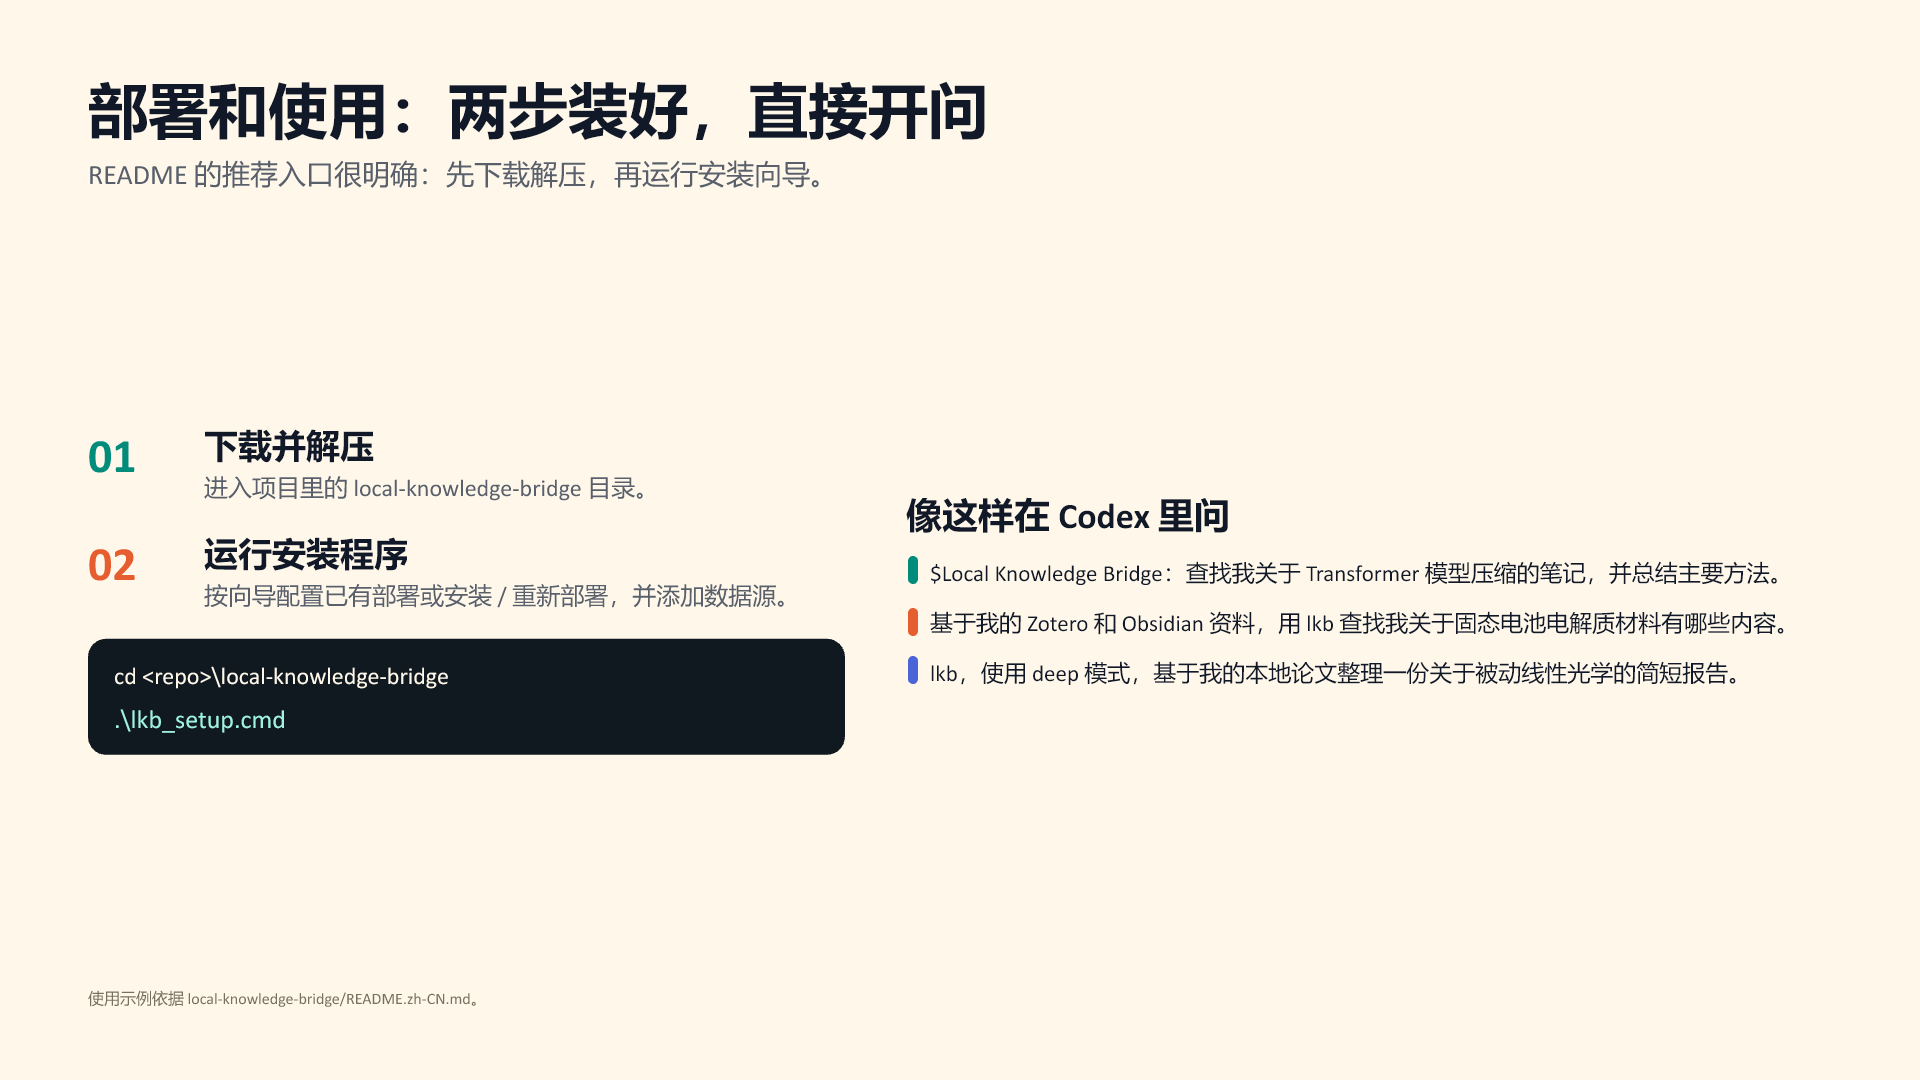
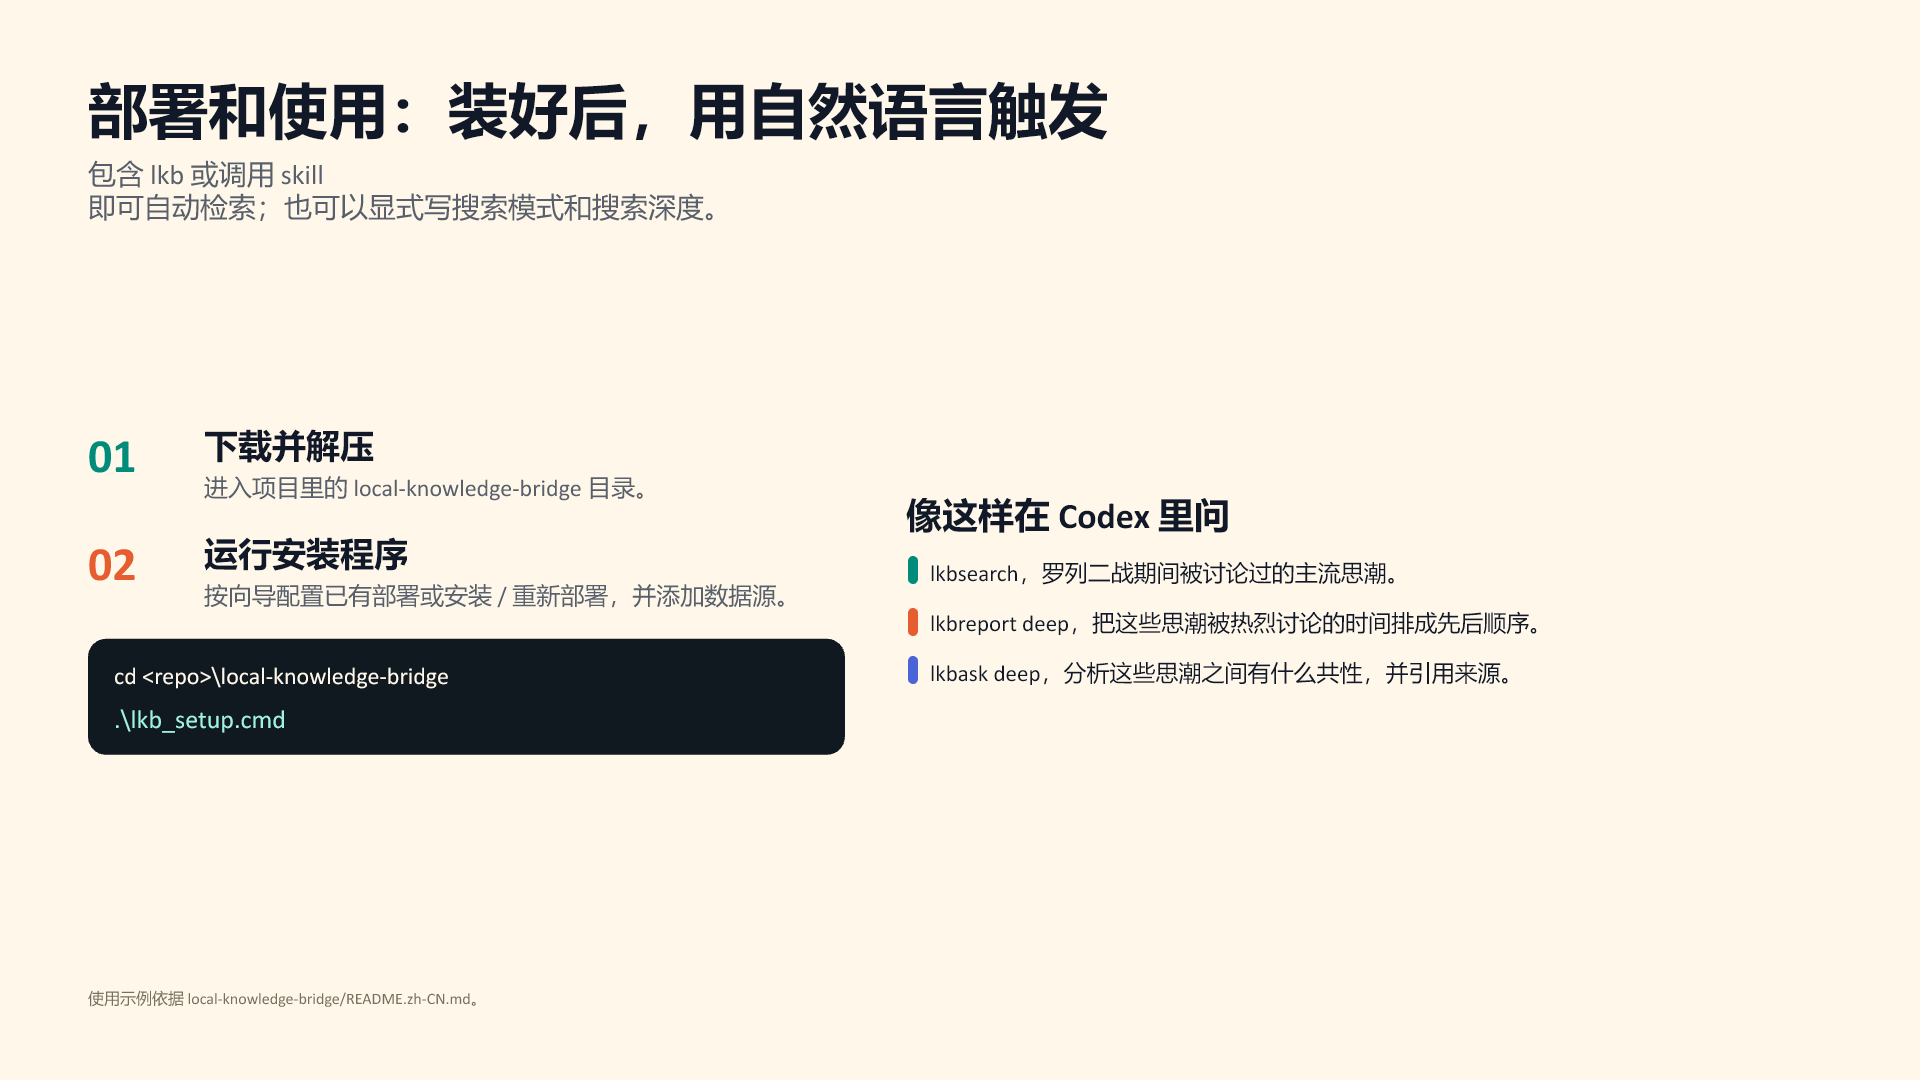
Clarify LKB modes and search depth
Improve user guidance for Local Knowledge Bridge by separating "search mode" (lkbsearch / lkbreport / lkbask / automatic) from "search depth" (fast / balanced / deep / auto). Update English and Chinese READMEs, SKILL.md, the presentation script and slides, and example prompts to show mode+depth combinations and add the `auto` shorthand for letting Codex choose. Also refresh associated presentation assets (PPTX and images) to match the new text and examples.

Changed region(s): [[0.0312, 0.0611, 0.5938, 0.2139], [0.4688, 0.5194, 0.9375, 0.6417]]

diff --git a/README.zh-CN.md b/README.zh-CN.md
@@ -110,22 +110,44 @@ $LKB = "$env:USERPROFILE\.codex\Function\local_knowledge_bridge"
 
 ### 在 Codex 中使用
 
-完成设置后，请在 Codex 中用自然语言使用它。当你希望 Codex 优先检索已配置的本地资料时，可以使用 `$Local Knowledge Bridge`，显式写出 `Local Knowledge Bridge`，或者在提示词中的任意位置加入 `lkb`。你也可以使用 `lkbsearch`、`lkbreport` 和 `lkbask` 这三个简写触发词，明确告诉 Codex 你想要哪种输出。
+完成设置后，请在 Codex 中用自然语言使用它。在提出问题或布置任务时包含 `lkb`，或显式调用 skill `$Local Knowledge Bridge`，就可以让 Codex 优先检索已配置的本地资料。你也可以使用 `lkbsearch`、`lkbreport` 和 `lkbask` 这三个简写触发词，明确告诉 Codex 你想要哪种输出；也可以使用 `fast`、`balanced`/`balance` 或 `deep` 来显式规定搜索深度。
 
-| 你想做什么 | 示例提示词 |
-| --- | --- |
-| 快速本地查找 | `$Local Knowledge Bridge：查找我关于 Transformer 模型压缩的笔记，并总结主要方法。` |
-| 原始候选检索 | `lkbsearch，在我的 Zotero 和 Obsidian 资料中查找固态电池电解质材料。` |
-| 证据报告 | `lkbreport，使用 deep 模式，基于我的本地论文整理一份关于被动线性光学的简短证据报告。` |
-| 带引用回答 | `lkbask：对比我本地关于 CRISPR 脱靶检测方法的笔记，并说明使用了哪些来源。` |
+日常使用时，可以把一次 LKB 请求理解成两个相互独立的选择：
 
-这些简写触发词是给 Codex 自然语言使用的；日常使用时不需要手动运行 PowerShell 命令。
+1. 搜索模式：你想要哪种输出。
+2. 搜索深度：你希望 LKB 查得多深。
 
-| 触发词 | 输出特点 | 来源处理方式 |
+这两个选择都可以自动。如果你不确定怎么选，直接写 `lkb` 加上你的问题，让 Codex 自动判断即可。想更明确时，也可以在同一句提示词里显式指定搜索模式、搜索深度，或同时指定两者。
+
+搜索模式决定输出形态。最简单的选择方式，是先想清楚你希望 LKB 帮你完成哪类任务：
+
+| 情景 | 使用 | LKB 应该做什么 | 来源处理方式 |
+| --- | --- | --- | --- |
+| “我还不确定要什么输出形式，先帮我查本地资料并处理这个问题。” | `lkb` 或 `$Local Knowledge Bridge` | Codex 根据你的请求自动选择检索、报告或回答。新手不确定时从这里开始。 | 来源处理方式取决于 Codex 自动选择的模式。 |
+| “我想罗列二战期间被讨论过的主流思潮。” | `lkbsearch` | 输出按相关度排序的本地候选材料列表，包含片段和路径，让你先看本地有哪些材料，并能自己打开来源继续检查。 | `DATA SOURCES` 可以列出所有已展示命中；编号按最终检索排序去重后生成。 |
+| “我想把二战期间主流思潮被热烈讨论的时间排成先后顺序。” | `lkbreport` | 输出结构化证据综述，比较来源，整理证据，再帮助你形成时间顺序或材料脉络。 | `DATA SOURCES` 可以列出所有已展示证据命中，因为 report 本身就是证据面。 |
+| “我想分析这些主流思潮之间有什么共性。” | `lkbask` | 输出基于本地证据写成的简洁回答，把关键判断和分析推理附上引用。 | `DATA SOURCES` 应只列正文实际引用过的来源；有帮助但未引用的候选命中应放入 `ADDITIONAL RETRIEVED SOURCES`。 |
+
+搜索深度决定检索力度：
+
+| 搜索深度 | 如何表达 | 适合场景 |
 | --- | --- | --- |
-| `lkbsearch` | 输出按相关度排序的本地候选材料列表，包含片段和路径。适合你想先看看本地有哪些资料，或想自己打开候选来源继续检查。 | `DATA SOURCES` 可以列出所有已展示命中；编号按最终检索排序去重后生成。 |
-| `lkbreport` | 输出结构化证据综述，先汇集最强的本地匹配，再帮助你比较来源或审查证据基础。 | `DATA SOURCES` 可以列出所有已展示证据命中，因为 report 本身就是证据面。 |
-| `lkbask` | 输出基于本地证据写成的简洁回答。适合你想要最终解释、判断或可直接使用的文字回答。 | `DATA SOURCES` 应只列正文实际引用过的来源；有帮助但未引用的候选命中应放入 `ADDITIONAL RETRIEVED SOURCES`。 |
+| 自动 | 不写搜索深度，或在 Codex 提示词中写 `auto`。 | 让 Codex 根据任务自动选择。新手默认用这个最稳。 |
+| Fast | `fast` | 快速检查、简单问题、低延迟查找。 |
+| Balanced | `balanced`；自然语言里写 `balance` 也可以 | 更广的本地召回，但不加载 deep 模型。适合希望本地材料查得更完整时使用。 |
+| Deep | `deep` | 本地语义检索和 reranking。适合复杂研究问题、文献综述，或你的问题和原文措辞不完全一致时使用。需要先完成 deep 设置。 |
+
+搜索模式和搜索深度可以自然组合：
+
+| 组合 | 示例提示词 |
+| --- | --- |
+| 自动模式 + 自动深度 | `lkb 我的笔记里关于 Transformer 模型压缩说了什么？` |
+| 自动模式 + 显式深度 | `lkb deep，总结我的本地资料中关于连续变量簇态的内容。` |
+| 显式模式 + 自动深度 | `lkbsearch，罗列二战期间被讨论过的主流思潮。` |
+| 检索 + balanced 深度 | `lkbsearch balanced，查找本地关于被动线性光学的资料。` |
+| 报告 + deep 深度 | `lkbreport deep，把二战期间主流思潮被热烈讨论的时间排成先后顺序。` |
+| 回答 + fast 深度 | `lkbask fast：我的 CRISPR 脱靶检测笔记的主要结论是什么？` |
+| 回答 + deep 深度 | `lkbask deep：基于我的 EndNote 和 Obsidian 来源，连续变量簇态无边图是否还有量子关联？` |
 
 同一次输出中的来源编号应全局唯一，例如 `[1]`、`[2]`、`[3]`，不要在 `Literature`、`Documents` 或其他来源分组中重新编号。对于 `lkbask`，正文中的事实判断和分析推理应使用同一套编号引用本地证据，例如 `……[1]` 或 `根据 [1], [3] 可以推断……`。
 
@@ -158,6 +180,7 @@ $LKB = "$env:USERPROFILE\.codex\Function\local_knowledge_bridge"
 
 检索配置（profiles）：
 
+- `auto` - 自然语言中的简写，表示让 Codex 自动选择检索配置；如果直接使用 CLI，不指定 `--profile` 即可，除非你想显式指定某个 profile
 - `fast` - 轻量本地检索，适合快速回答，默认使用
 - `balanced` - 更广的轻量检索
 - `deep` - 使用本地模型进行语义评分和 reranking

diff --git a/README.md b/README.md
@@ -110,22 +110,44 @@ When `deep_status.ready` is `true`, use `--profile deep` in search, ask, or repo
 
 ### Use It In Codex
 
-After setup, use natural language in Codex. Invoke `$Local Knowledge Bridge`, mention `Local Knowledge Bridge`, or include `lkb` anywhere in the prompt when you want Codex to search your configured local sources first. You can also use the shorthand trigger words `lkbsearch`, `lkbreport`, and `lkbask` to make the intended output style explicit.
+After setup, use natural language in Codex. Include `lkb` in your question or task, or explicitly invoke the `$Local Knowledge Bridge` skill, to make Codex search your configured local sources first. You can also use `lkbsearch`, `lkbreport`, and `lkbask` to tell Codex what kind of output you want, or use `fast`, `balanced`/`balance`, or `deep` to specify search depth.
 
-| What you want | Example prompt |
-| --- | --- |
-| Quick local lookup | `$Local Knowledge Bridge: find my notes on transformer model compression and summarize the main methods.` |
-| Raw candidate search | `lkbsearch my Zotero and Obsidian sources for solid-state battery electrolyte materials.` |
-| Evidence review | `lkbreport, use deep mode to make a short evidence report from my local papers about passive linear optics.` |
-| Cited answer | `lkbask: compare my local notes on CRISPR off-target detection methods and cite the sources you used.` |
+For everyday use, think of an LKB request as two independent choices:
 
-The shorthand triggers are for natural-language use in Codex; you do not need to run PowerShell commands for everyday work.
+1. Search mode: what kind of output you want.
+2. Search depth: how hard LKB should search.
 
-| Trigger | What you get | Source behavior |
+Both choices can be automatic. If you are unsure, just write `lkb` plus your question and let Codex choose. If you want more control, specify the mode, the depth, or both in the same prompt.
+
+Search mode controls the output shape. The easiest way to choose is to describe the job you want LKB to do:
+
+| Situation | Use | What LKB should do | Source behavior |
+| --- | --- | --- | --- |
+| "I am not sure what output form I need. Please look in my local sources and help me." | `lkb` or `$Local Knowledge Bridge` | Codex chooses search, report, or answer synthesis based on your request. Start here if you are not sure. | Source handling follows the mode Codex chooses. |
+| "I want to list the main intellectual currents discussed during World War II." | `lkbsearch` | Return a ranked list of candidate local materials with snippets and paths, so you can see what exists and open sources yourself. | `DATA SOURCES` may include all displayed hits, numbered by final retrieval rank after de-duplication. |
+| "I want to put those World War II intellectual currents in chronological order by when they were most actively discussed." | `lkbreport` | Build a structured evidence review, compare sources, and organize the retrieved evidence before you write or decide. | `DATA SOURCES` may include all displayed evidence hits because the report is an evidence surface. |
+| "I want to analyze what those intellectual currents have in common." | `lkbask` | Write a concise answer from local evidence, with citations attached to the claims and analysis. | `DATA SOURCES` should list only sources cited in the answer body. Useful uncited hits should be separated as `ADDITIONAL RETRIEVED SOURCES`. |
+
+Search depth controls retrieval effort:
+
+| Search depth | How to ask for it | Best for |
 | --- | --- | --- |
-| `lkbsearch` | A ranked list of matching local materials with snippets and paths. Choose this when you want to inspect what exists or open candidate sources yourself. | `DATA SOURCES` may include all displayed hits, numbered by final retrieval rank after de-duplication. |
-| `lkbreport` | A structured evidence review that gathers the strongest local matches before you write or decide. Choose this when you want to compare sources or audit the evidence base. | `DATA SOURCES` may include all displayed evidence hits because the report is an evidence surface. |
-| `lkbask` | A concise answer written from local evidence. Choose this when you want a final explanation, decision, or prose answer. | `DATA SOURCES` should list only sources cited in the answer body. Useful uncited hits should be separated as `ADDITIONAL RETRIEVED SOURCES`. |
+| Automatic | Leave depth unspecified, or write `auto` in a Codex prompt. | Letting Codex choose based on the task. This is the safest default for new users. |
+| Fast | `fast` | Quick checks, simple questions, and low-latency lookups. |
+| Balanced | `balanced`; `balance` is fine in natural language | Broader recall without loading deep models. Use this when you want a more complete local pass. |
+| Deep | `deep` | Local semantic retrieval and reranking. Use this for nuanced research questions, literature review, or when wording differs between your question and the source text. Requires deep setup. |
+
+You can combine mode and depth naturally:
+
+| Combination | Example prompt |
+| --- | --- |
+| Automatic mode + automatic depth | `lkb what do my notes say about transformer model compression?` |
+| Automatic mode + explicit depth | `lkb deep, summarize my local sources on continuous-variable cluster states.` |
+| Explicit mode + automatic depth | `lkbsearch list the main intellectual currents discussed during World War II.` |
+| Search + balanced depth | `lkbsearch balanced, find local sources about passive linear optics.` |
+| Report + deep depth | `lkbreport deep, put the World War II intellectual currents in chronological order by when they were most discussed.` |
+| Ask + fast depth | `lkbask fast: what is the main conclusion of my notes on CRISPR off-target detection?` |
+| Ask + deep depth | `lkbask deep: based on my EndNote and Obsidian sources, do CV cluster states without edges have quantum correlations?` |
 
 Source numbers are global within an output, such as `[1]`, `[2]`, `[3]`, and should not restart inside `Literature`, `Documents`, or other source-family sections. For `lkbask`, the answer should use the same numbers inline for claims and analysis that depend on local evidence, for example `... [1]` or `Inference from [1], [3]`.
 
@@ -158,6 +180,7 @@ Search targets:
 
 Retrieval profiles:
 
+- `auto` - natural-language shorthand for letting Codex choose a profile; in CLI use, omit `--profile` unless you want to specify one explicitly
 - `fast` - lightweight local retrieval, default for quick answers
 - `balanced` - broader lightweight retrieval
 - `deep` - semantic scoring and reranking with local models

diff --git a/skill/SKILL.md b/skill/SKILL.md
@@ -77,9 +77,12 @@ Profiles:
 
 Natural-language shorthand:
 
+- `lkb` means automatic output mode and automatic depth unless the user specifies otherwise.
 - `lkbsearch` means raw retrieval with `lkb_search.cmd`.
 - `lkbreport` means structured evidence review with `lkb_report.cmd`.
 - `lkbask` means cited answer synthesis with `lkb_ask.cmd`.
+- `auto` means let Codex choose the retrieval profile; for CLI usage, omit `--profile`.
+- `fast`, `balanced`, and `deep` explicitly select retrieval depth. Treat `balance` in natural language as `balanced`.
 
 Primary answer:
 
@@ -135,13 +138,19 @@ C:\Users\<user>\.codex\Function\local_knowledge_bridge\lkb_bootstrap_runtime.cmd
 - `use lkb to search passive linear optics`
 - `answer with lkb`
 - `search my local notes with lkb`
+- `lkb deep, summarize my local sources on continuous-variable cluster states`
 - `lkbsearch my Zotero and Obsidian sources for solid-state battery electrolyte materials`
+- `lkbsearch balanced, find local sources about passive linear optics`
 - `lkbreport, use deep mode to make an evidence report about passive linear optics`
 - `lkbask: compare my local notes on CRISPR off-target detection methods and cite the sources`
+- `lkbask fast: what is the main conclusion of my notes on CRISPR off-target detection`
 - `用 lkb 检索 passive linear optics`
+- `lkb deep，总结我的本地资料中关于连续变量簇态的内容`
 - `lkbsearch，在我的 Zotero 和 Obsidian 资料中查找固态电池电解质材料`
+- `lkbsearch balanced，查找本地关于被动线性光学的资料`
 - `lkbreport，使用 deep 模式整理一份关于被动线性光学的证据报告`
 - `lkbask：对比我本地关于 CRISPR 脱靶检测方法的笔记并引用来源`
+- `lkbask fast：我的 CRISPR 脱靶检测笔记的主要结论是什么`
 - `基于 lkb 回答这个问题`
 
 ## Behavior Notes

diff --git a/presentation/lkb_intro/scratch/lkb_video_script.md b/presentation/lkb_intro/scratch/lkb_video_script.md
@@ -8,7 +8,7 @@
 
 ## 第 2 页：主要功能
 
-日常使用时，你不用记一堆命令。在 Codex 里写 Local Knowledge Bridge，或者直接写 lkb，它就会去 Obsidian、Zotero、EndNote 和本地文件夹里找证据。它支持 fast、balanced 和可选 deep 三种方式，既能快速查找，也能做更深入的本地语义检索。
+日常使用时，你不用记一堆命令。提出问题时写 lkb，或者显式调用 Local Knowledge Bridge，就能启用本地检索。如果想更明确，可以写 lkbsearch、lkbreport、lkbask 来选择输出形式，也可以写 fast、balanced 或 deep 来指定搜索深度。
 
 ## 第 3 页：底层原理与优点
 
@@ -16,4 +16,4 @@
 
 ## 第 4 页：部署和使用
 
-部署也尽量简单。第一步，下载项目并解压；第二步，在 local-knowledge-bridge 目录运行 lkb_setup.cmd，然后按向导添加数据源。之后就像聊天一样提问，例如查 Transformer 压缩笔记，或让 lkb 基于本地论文整理报告。资料仍在本机，AI 终于能用上它们。
+部署也尽量简单。第一步，下载项目并解压；第二步，在 local-knowledge-bridge 目录运行 lkb_setup.cmd，然后按向导添加数据源。之后就像聊天一样提问：想罗列材料用 lkbsearch，想整理证据脉络用 lkbreport，想得到带引用的分析回答用 lkbask。
